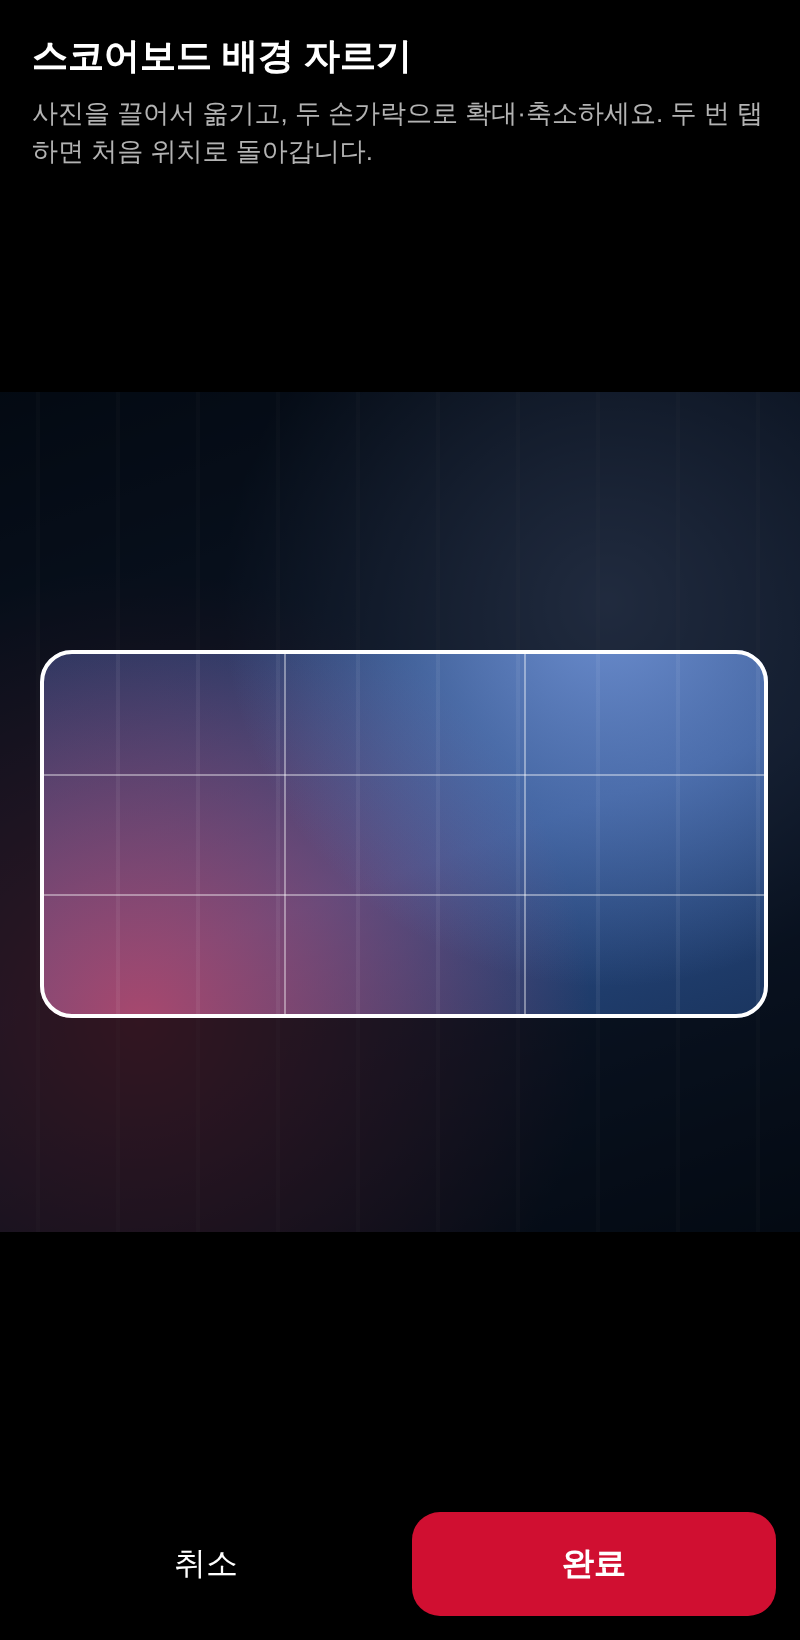
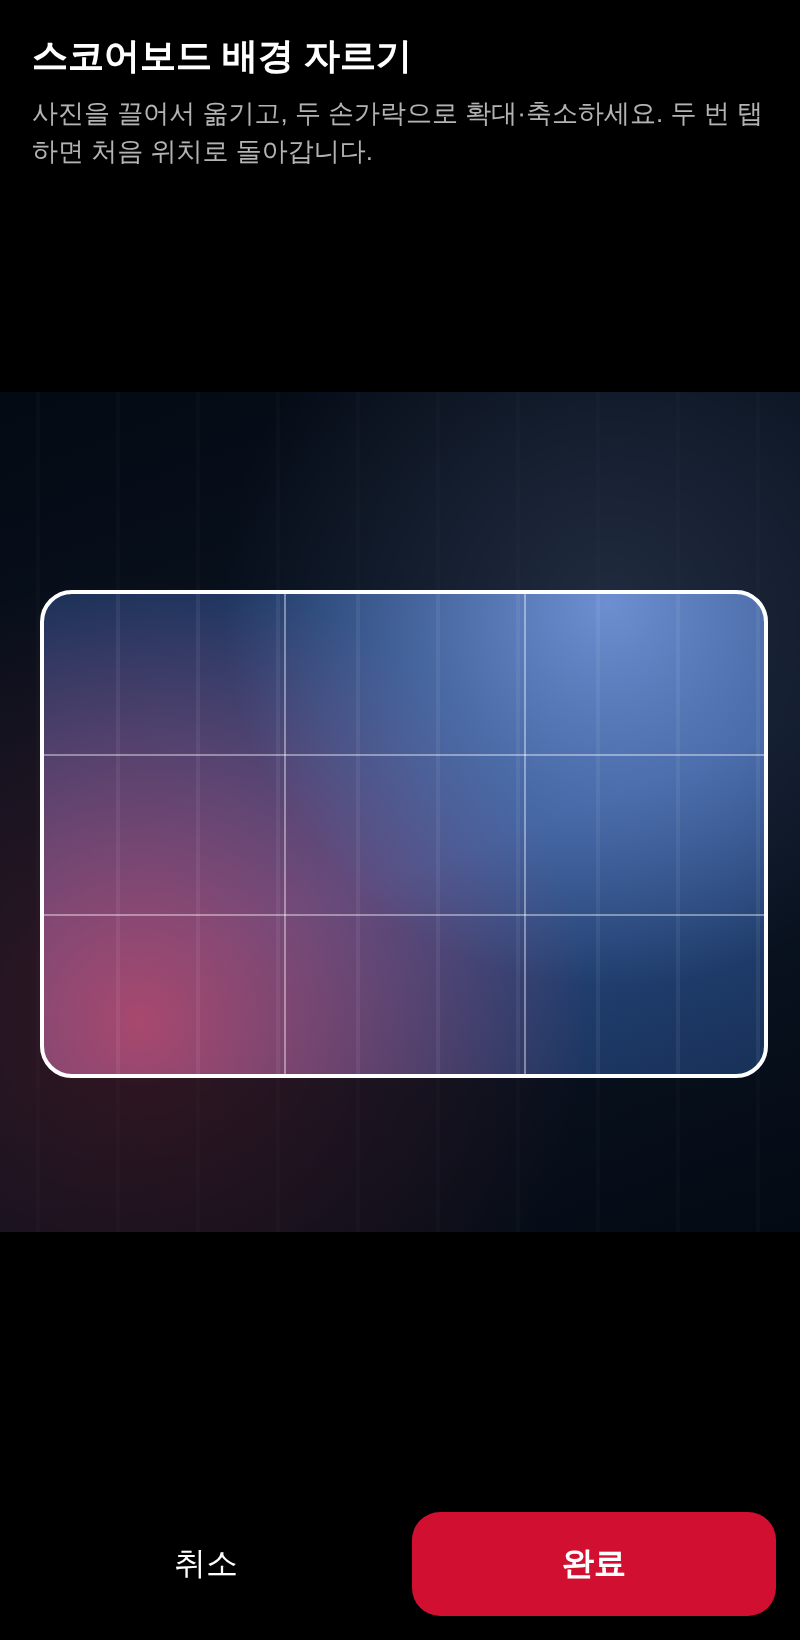
README 전체 정리 + 시안 이미지 최신화
- 최신 기능 기준으로 README 재작성 (앱 화면, 배경 사진, 알림, 실시간 갱신, 데이터, 설치·업데이트, 테스트, 구조)
- Giants Inline 폰트: 무료 사용 가능·상업적 사용 제한으로 안내 수정
- 알림 시안(원정 : 홈 표기, 실제 경기)과 자르기 화면 시안(3:2 틀) 갱신

Claude-Session: https://claude.ai/code/session_01DWNHkfmbEMvaTfCWG21Gcw

Changed region(s): [[0.0312, 0.5909, 0.9688, 0.6841], [0.0312, 0.3421, 0.9688, 0.4043]]

diff --git a/README.md b/README.md
@@ -1,114 +1,159 @@
 # 롯데 스코어보드
 
-롯데 자이언츠의 최근 경기 **최종 스코어**와 **진행 중인 경기 점수**를 알림으로 계속 띄워 두는 안드로이드 앱입니다. 잠금화면과 알림창에서 언제든 확인할 수 있습니다.
+응원 팀(롯데 자이언츠 또는 국가대표)의 **경기 스코어보드**를 보여주는 개인용 안드로이드 앱입니다.
+
+- 앱 화면에서는 **야구장 전광판 스타일**로 최근 경기·오늘 경기·진행 중인 경기를 보여줍니다.
+- 같은 스코어보드를 **알림으로 계속 띄워 둬서** 잠금화면과 알림창에서도 바로 확인할 수 있습니다.
+- 경기 중에는 점수를 **실시간으로 갱신**합니다.
 
 > **⚠ 안내**
 > - 개인 학습·취미용 비공식 프로젝트입니다. **롯데 자이언츠, KBO, 네이버와 관련이 없으며** 이들의 승인이나 후원을 받지 않았습니다.
 > - 경기 데이터는 **네이버 스포츠의 비공개(비공식) API**에서 가져옵니다. 이 API는 공개된 적이 없어서 예고 없이 바뀌거나 막힐 수 있습니다.
 > - 데이터에 대한 권리는 각 제공처에 있습니다. **상업적으로 쓰거나 많은 사람에게 배포하지 마세요.** 네이버 이용약관을 직접 확인하고 각자 책임하에 사용하세요.
 > - 팀 이름 등 상표는 각 소유자의 것입니다. 구단 로고나 공식 이미지는 들어 있지 않습니다.
-> - 단, 전광판 제목에 쓰는 **Giants Inline 폰트**(`app/src/main/res/font/giants_inline.otf`)는 개인용으로 넣은 파일입니다. **저장소를 공개하거나 앱을 배포하기 전에 빼거나 사용 조건을 확인하세요.**
+> - 전광판 제목에 쓰는 **Giants Inline 폰트는 무료로 쓸 수 있지만 상업적 사용은 제한**됩니다. 이 앱을 상업적으로 쓰려면 이 폰트를 빼야 합니다. 자세한 내용은 [라이선스](#라이선스)를 참고하세요.
 
-| 알림 | 앱 화면 |
+| 앱 화면 | 알림 (잠금화면 / 알림창) |
 |---|---|
-| ![notification](notification-mock.png) | ![app](app-screen-mock.png) |
+| ![앱 화면](app-screen-mock.png) | ![알림](notification-mock.png) |
 
-(두 그림 모두 디자인 시안입니다. 실제 모양은 기기와 안드로이드 버전에 따라 조금 다릅니다. 앱 화면의 배경은 예시로 그린 그라데이션입니다.)
+(디자인 시안입니다. 실제 모양은 기기와 안드로이드 버전에 따라 조금 다릅니다.)
 
-## 알림 구성
+## 주요 기능
+- **전광판 스코어보드**: 이닝별 점수(1~9회, 연장), R·H·E, 경기 전 / 경기 중 / 경기 종료 상태
+- **응원 팀 선택**: 롯데 자이언츠 / 국가대표(APBC·WBC 등 국제대회)
+- **알림 스코어보드**: 잠금화면·알림창에 상시 표시, 소리·진동 없음
+- **실시간 갱신**: 경기 시작 시각에 자동으로 시작, 경기 중 5분 간격, 화면을 켜면 바로 확인
+- **배경 사진**: 전광판 뒤에 원하는 사진을 3:2로 잘라서 넣기
+- **API 키 필요 없음**: 네이버 스포츠에서 바로 받아옴
+
+## 앱 화면
+위에서부터 다음 순서로 나옵니다.
+
+1. **제목 + 응원 팀 선택**: 오른쪽 버튼을 누르면 **롯데 자이언츠 / 국가대표** 중에서 고르는 메뉴가 뜹니다. 팀을 바꾸면 바로 그 팀의 결과를 불러옵니다.
+2. **전광판** (가로:세로 3:2 고정)
+   - 제목: 롯데는 **GIANTS**(남색 글자 + 하늘색 테두리), 국가대표는 **태극 마크 + TEAM KOREA**(위 빨강·아래 파랑)
+   - 오른쪽 위 상태: **경기 전**(주황) / **경기 중**(초록) / **경기 종료**(회색)
+   - 날짜 · 구장 · (국제대회면 대회 이름, 예: APBC)
+   - 라인스코어: 검은 칸에 주황 전광판 숫자. 원정팀이 위, 홈팀이 아래. 응원 팀은 빨간색
+   - 아래 띠
+     - 경기 종료: `롯데 승` · `7 - 4` · `10:29 갱신`
+     - 경기 중: `● 7회말` · 점수 · 갱신 시각
+     - 경기 전: `실시간 갱신 예약됨` · `PLAY BALL 12:00`
+   - **오늘 경기가 예정돼 있으면** 지난 경기 대신 오늘 경기를 '경기 전'으로 보여줍니다.
+3. **결과 불러오기**: 지금 바로 최신 결과를 받아옵니다.
+4. **설정 목록**
+   - **알림에 스코어보드 표시** (스위치): 끄면 알림을 지우고, 경기 중 실시간 갱신도 하지 않습니다. 앱 화면은 계속 갱신됩니다.
+   - **스코어보드 배경**: 사진 선택 / 기본 배경으로 ([전광판 배경 사진](#전광판-배경-사진))
+   - **휴대폰 알림 설정**: 이 앱의 안드로이드 알림 설정 화면을 엽니다.
+5. **실시간 갱신 중지** (맨 아래)
+
+### 전광판 배경 사진
+![자르기 화면](crop-screen-mock.png)
+
+- **스코어보드 배경 → 사진 선택**을 누르면 시스템 사진 선택기가 열리고, 사진을 고르면 **자르기 화면**으로 넘어갑니다. 저장소 권한은 필요 없습니다.
+- 3:2 틀은 고정돼 있고, 사진을 **끌어서 옮기고 두 손가락으로 확대·축소**해서 맞춥니다.
+  - 두 번 탭하면 처음 위치로 돌아갑니다.
+  - 사진이 틀 밖으로 비지 않게 자동으로 맞춰지고, 최대 8배까지 확대됩니다.
+- **완료**를 누르면 틀 안 부분만 잘라(최대 폭 1440px) 앱 안에 저장합니다. 갤러리에서 원본을 지워도 유지됩니다.
+- 사진 위에는 전광판 색을 반투명하게 덮어서 숫자가 잘 보이게 합니다.
+- **기본 배경으로**를 고르면 사진을 지우고 기본 전광판으로 돌아갑니다.
+
+## 알림
 - **접힌 상태**(잠금화면에서 주로 보이는 부분)
-  - 종료 후: `LG 0 : 5 롯데` / `승 · 11월 8일 (토)`
-  - 경기 중: `LG 2 : 3 롯데` / `● 7회말 · 11월 9일 (일)`
-- 점수는 야구 표기 관례대로 **원정 : 홈** 순서입니다. 점수표도 원정이 위, 홈이 아래입니다.
-- **펼친 상태**: 이닝별 라인스코어(1~9회, 연장, R H E). 롯데는 빨간색으로 표시합니다.
+  - 경기 종료: `롯데 7 : 4 두산` / `승 · 10월 12일 (월) · 잠실`
+  - 경기 중: `LG 2 : 3 롯데` / `● 7회말 · …`
+  - 점수는 야구 표기 관례대로 **원정 : 홈** 순서입니다.
+- **펼친 상태**: 이닝별 라인스코어(1~9회, 연장, R·H·E). 응원 팀은 빨간색입니다.
+- 알림은 안드로이드 기본 모양(흰 배경, 다크 모드에서는 검은 배경)입니다.
 - 소리·진동·팝업이 없는 상시 알림입니다.
   - 채널 중요도를 '기본'으로 둬서 아래쪽 '무음 알림' 구역이 아니라 일반 알림 구역에 표시됩니다.
   - 같은 구역 안의 순서는 안드로이드가 정하기 때문에, 더 최근에 온 알림이 위로 올라갈 수 있습니다.
   - Android 14부터는 밀어서 지울 수 있고, 지우면 다음 새 결과가 나올 때 다시 뜹니다.
-
-## 앱 화면
-- 밝은 화면에 **야구장 전광판 스타일 스코어보드**를 얹은 디자인입니다.
-  - 위: "스코어보드" 제목 + **응원 팀 선택**(롯데 자이언츠 / 국가대표, 눌러서 고름)
-  - 전광판 제목: 롯데는 **GIANTS**(남색 글자 + 하늘색 테두리), 국가대표는 **태극 마크 + TEAM KOREA**(위 빨강·아래 파랑). 둘 다 Giants Inline 폰트입니다.
-  - 상태 표시: **경기 전 / 경기 중 / 경기 종료**
-  - 라인스코어: 검은 칸에 주황 전광판 숫자(VT323 폰트), 응원 팀은 빨간색
-  - 아래 띠: 승패·점수·갱신 시각. 경기 전에는 "실시간 갱신 예약됨 · PLAY BALL 시작시각"
-  - 오늘 경기가 예정돼 있으면 지난 경기 대신 **오늘 경기(경기 전)**를 보여줍니다.
-- **결과 불러오기** 버튼, 설정 목록(**알림에 스코어보드 표시** 스위치 · **스코어보드 배경** · **휴대폰 알림 설정**), 맨 아래 **실시간 갱신 중지**
-  - 알림 스위치를 끄면 알림을 지우고 경기 중 실시간 갱신도 하지 않습니다. 앱 화면은 계속 갱신됩니다.
-- 데모 경기는 화면에서 뺐습니다. 테스트할 때는 제목 **"스코어보드"를 길게 누르면** 실행됩니다.
-
-## 전광판 배경 사진
-- 전광판은 **가로:세로 3:2로 고정**돼 있습니다.
-- **스코어보드 배경 → 사진 선택**을 누르면 시스템 사진 선택기에서 사진을 고르고, 이어서 **자르기 화면**이 열립니다.
-  - 3:2 틀은 고정돼 있고, 사진을 **끌어서 옮기고 두 손가락으로 확대·축소**해서 맞춥니다. 두 번 탭하면 처음 위치로 돌아갑니다.
-  - **완료**를 누르면 틀 안 부분만 잘라(최대 폭 1440px) 앱 안에 저장합니다. 원본을 지워도 유지됩니다.
-- 사진 위에는 전광판 색을 반투명하게 덮어서 숫자가 잘 보이게 합니다. **기본 배경으로**를 고르면 사진을 지웁니다.
-- 알림은 기본 흰 배경(다크 모드에서는 검은 배경) 그대로입니다.
-
-## 데이터: 네이버 스포츠 (API 키 필요 없음)
-- 경기 목록: `GET https://api-gw.sports.naver.com/schedule/games?upperCategoryId=kbaseball&categoryId=kbo&fromDate=..&toDate=..&teamCode=LT`
-- 경기 기록(이닝별 점수, R H E, 구장): `GET https://api-gw.sports.naver.com/schedule/games/{gameId}/record`
-- **비공식 API**라서 네이버가 형식을 바꾸면 수정이 필요할 수 있습니다.
-- 팀 필터나 개수 옵션이 안 먹혀서 일부만 오면, 하루씩 나눠서 다시 받습니다.
-- 3시간마다 최근 2주 경기만 확인해서 새 결과가 있으면 알림을 갱신합니다.
-- 앱에서 직접 불러올 때(또는 팀을 바꿀 때)는, 최근 2주에 경기가 없으면 2주씩 거슬러 올라가며 마지막 경기를 찾습니다(비시즌 대비).
+- 알림에는 예정 경기를 띄우지 않습니다. 경기 전에는 직전 경기 결과를 계속 보여줍니다.
 
 ## 실시간 갱신 (경기 중)
-- 3시간 주기 작업이 오늘 경기를 발견하면 **경기 시작 시각에 정확한 알람**을 예약합니다.
+- **3시간마다** 최근 2주 경기를 확인해서 새 결과가 있으면 알림을 갱신합니다.
+- 이때 오늘 경기를 발견하면 **경기 시작 시각에 정확한 알람**을 예약합니다.
 - 알람이 울리면 실시간 서비스가 시작되고, 스코어보드 알림이 그대로 실시간 점수판이 됩니다.
-  - 화면이 켜져 있으면 5분마다, 꺼져 있으면 15분마다 점수를 확인합니다.
+  - 화면이 켜져 있으면 **5분마다**, 꺼져 있으면 15분마다 점수를 확인합니다.
   - **화면을 켜는 순간** 바로 확인합니다(직전 확인 후 3분 이내면 생략).
   - 점수가 바뀌었을 때만 알림을 고칩니다.
-- 경기가 끝나면 최종 스코어 알림을 남기고 서비스가 스스로 종료합니다. 추가 API 호출은 없습니다.
-- 진행 이닝(`7회말`)은 네이버가 주는 값을 그대로 씁니다.
-- 과도한 요청을 막기 위해 하루 요청이 400회를 넘으면 실시간 갱신을 멈춥니다(보통 경기 하나에 100회 안팎).
+- 경기가 끝나면 최종 스코어 알림을 남기고 서비스가 스스로 멈춥니다.
+- 우천 지연 등으로 시작이 늦어지면 예정 시각 3시간 뒤까지 기다립니다. 취소·서스펜디드 경기는 바로 멈춥니다.
+- 하루 요청이 400회를 넘으면 실시간 갱신을 멈춥니다(보통 경기 하나에 100회 안팎).
+- **알림에 스코어보드 표시**를 끄면 실시간 갱신도 하지 않습니다.
 
-## 빌드 / 설치
-1. Android Studio로 이 폴더를 열고 기기에서 실행합니다(minSdk 28 / Android 9+).
-2. 앱의 **응원 팀** 토글에서 **롯데 자이언츠** 또는 **국가대표**를 고르면 바로 결과를 불러옵니다. 기본값은 롯데입니다.
-3. **알림 표시**를 누르고 알림 권한을 허용합니다.
+## 데이터: 네이버 스포츠 (비공식 API, 키 필요 없음)
+- 경기 목록: `GET https://api-gw.sports.naver.com/schedule/games?upperCategoryId=kbaseball&categoryId=kbo&fromDate=..&toDate=..&teamCode=LT`
+- 경기 기록(이닝별 점수, R·H·E, 구장): `GET https://api-gw.sports.naver.com/schedule/games/{gameId}/record`
+- 팀 설정
+  - 롯데 자이언츠: 팀 코드 `LT`, 리그 `kbo`
+  - 국가대표: 팀 코드 `KR`, 리그는 지정하지 않음(야구 전체). APBC·WBC처럼 대회마다 분류가 달라도 한국 경기를 찾습니다.
+- 팀 필터나 개수 옵션이 안 먹혀서 일부만 오면, 하루씩 나눠서 다시 받습니다.
+- 앱에서 직접 불러올 때(또는 팀을 바꿀 때)는, 최근 2주에 경기가 없으면 2주씩 거슬러 올라가며 마지막 경기를 찾습니다(비시즌 대비).
+- 요청에는 앱 이름(`LotteScoreboard`)을 밝혀서 보내고, 네이버 계정이나 로그인은 쓰지 않습니다.
 
-- 롯데 자이언츠: 네이버 팀 코드 `LT`, 리그 `kbo`
-- 국가대표: 팀 코드 `KR`, 리그는 지정하지 않음(야구 전체). APBC·WBC처럼 대회마다 분류가 달라도 한국 경기를 찾습니다.
-- 다른 팀을 추가하려면 `Prefs.kt`의 `TeamChoice`에 항목을 넣고 토글 버튼을 하나 더 만들면 됩니다.
+## 설치
+### 준비
+- Android Studio (최신 버전), Git
+- 안드로이드 9 이상 폰 (minSdk 28)
+
+### 처음 설치
+1. Android Studio에서 **File → New → Project from Version Control**을 고르고 이 저장소를 받습니다(Clone).
+   - 저장 위치는 **한글이 없는 경로**로 하세요(예: `C:\dev\giants`). 경로에 한글이 있으면 빌드가 실패할 수 있습니다.
+2. Gradle sync가 끝날 때까지 기다립니다.
+3. 폰에서 **개발자 옵션 → USB 디버깅**(또는 **무선 디버깅**)을 켭니다.
+   - 갤럭시는 **보안 위험 자동 차단**을 잠시 꺼야 설치됩니다.
+4. 상단 기기 목록에서 폰을 고르고 **▶ Run**을 누릅니다.
+5. 설치가 끝나면 보안 위험 자동 차단을 다시 켜도 됩니다. 앱은 계속 동작합니다.
+
+### 업데이트
+1. Android Studio에서 **Git → Pull** (`Ctrl+T`)
+2. 폰을 연결하고 **▶ Run**. 같은 PC에서 빌드하면 기존 앱 위에 설치되고 설정도 유지됩니다.
+
+### 처음 실행할 때
+1. **결과 불러오기**를 누릅니다(기본 팀은 롯데).
+2. **알림에 스코어보드 표시**를 켜고 알림 권한을 허용합니다.
 
 ### 잠금화면에 점수가 안 보이면
-- **설정 → 잠금화면 → 알림**에서 표시 방식을 "아이콘만"이 아니라 **내용/세부 정보 표시**로 바꿉니다(삼성 기준).
-- **알림 설정 열기** 버튼에서 '경기 스코어보드' 채널이 켜져 있고 잠금화면 표시가 허용돼 있는지 확인합니다.
+- 휴대폰 **설정 → 잠금화면 → 알림**에서 표시 방식을 "아이콘만"이 아니라 **내용/세부 정보 표시**로 바꿉니다(삼성 기준).
+- 앱의 **휴대폰 알림 설정**에서 '경기 스코어보드' 채널이 켜져 있고 잠금화면 표시가 허용돼 있는지 확인합니다.
 
 ## 테스트
-- **데모 경기 실행**: API 없이 가상 경기가 20초마다 반 이닝씩 진행됩니다. 끝나면 1분 동안 최종 스코어를 보여준 뒤 실제 최근 경기로 돌아갑니다.
-- **APBC 한국 대표팀 (2026.11.12~15, 도쿄돔)**: 토글에서 **국가대표**를 고릅니다.
-  - 경기 당일에 고르거나 **결과 불러오기**를 누르면 경기 시작 시각에 실시간 갱신이 예약됩니다.
-  - 12일 12:00 호주전, 13일 19:00 일본전, 14일 19:00 대만전
-  - 끝나면 **롯데 자이언츠**로 되돌립니다.
+- **유닛 테스트**: `app/src/test/`. 실제 네이버 응답(2026년 9월 롯데 경기, APBC 일정)으로 파싱을 확인하고, 자르기 계산도 확인합니다.
+  ```bash
+  ./gradlew test
+  ```
+- **데모 경기**: 화면에는 버튼이 없고, 제목 **"스코어보드"를 길게 누르면** 실행됩니다. 가상 경기가 20초마다 반 이닝씩 진행돼서 알림과 전광판이 바뀌는 걸 확인할 수 있습니다. 끝나면 1분 동안 최종 스코어를 보여준 뒤 실제 최근 경기로 돌아갑니다.
 
-## 파일 구성
+## 프로젝트 구조
 | 파일 | 역할 |
 |---|---|
-| `ScoreParser.kt` | 네이버 응답 파싱, 추적 팀의 종료/진행 중 경기 찾기 (실제 응답으로 유닛 테스트) |
-| `NaverSportsClient.kt` | 네이버 스포츠 경기 목록·기록 요청 |
-| `ScoreUpdater.kt` | 결과 갱신·캐시, 오늘 경기 감지 → 실시간 갱신 예약 |
-| `ScoreNotifier.kt` | 스코어보드 알림 (접힌 요약 + 펼친 라인스코어) |
-| `res/layout/notification_scoreboard.xml` | 펼친 알림의 라인스코어 레이아웃 |
-| `UpdateWorker.kt` | 3시간 주기 자동 갱신 |
-| `LiveController.kt` | 정확한 알람 예약, 실시간 서비스 시작/중지 |
-| `LiveScoreService.kt` | 경기 중 실시간 갱신 (포그라운드 서비스) |
-| `DemoGame.kt` | 테스트용 가상 경기 |
-| `MainActivity.kt` | 설정 화면 (알림과 같은 레이아웃으로 미리보기) |
-| `CropActivity.kt`, `CropImageView.kt` | 배경 사진 자르기 화면 (3:2 틀, 이동·확대) |
-| `CropMath.kt` | 자르기 계산 — 확대 한도, 빈틈 방지, 잘라낼 영역 (유닛 테스트 있음) |
-| `AspectRatioFrameLayout.kt` | 3:2 비율로 고정되는 전광판 카드 |
+| `MainActivity.kt` | 메인 화면 (팀 선택, 결과 불러오기, 설정 목록) |
 | `ScoreboardBinder.kt` | 앱 화면 전광판 그리기 (제목, 상태, 라인스코어, 아래 띠) |
+| `AspectRatioFrameLayout.kt` | 3:2 비율로 고정되는 전광판 카드 |
+| `CropActivity.kt`, `CropImageView.kt` | 배경 사진 자르기 화면 (3:2 틀, 이동·확대) |
+| `CropMath.kt` | 자르기 계산 (확대 한도, 빈틈 방지, 잘라낼 영역) |
+| `ScoreParser.kt` | 네이버 응답 파싱, 응원 팀의 종료·진행 중·예정 경기 찾기 |
+| `NaverSportsClient.kt` | 네이버 스포츠 경기 목록·기록 요청 |
+| `ScoreUpdater.kt` | 결과 갱신·저장, 오늘 경기 감지 → 실시간 갱신 예약 |
+| `ScoreNotifier.kt` | 스코어보드 알림 (접힌 요약 + 펼친 라인스코어) |
+| `UpdateWorker.kt` | 3시간 주기 자동 갱신 |
+| `LiveController.kt` | 정확한 알람 예약, 실시간 서비스 시작·중지 |
+| `LiveScoreService.kt` | 경기 중 실시간 갱신 (포그라운드 서비스) |
+| `Prefs.kt` | 설정·저장값 (응원 팀, 알림 스위치, 저장된 경기) |
+| `DemoGame.kt` | 테스트용 가상 경기 |
+| `res/layout/activity_main.xml` | 메인 화면 레이아웃 |
+| `res/layout/notification_scoreboard.xml` | 펼친 알림의 라인스코어 |
+| `res/font/` | `giants_inline.otf`(전광판 제목), `vt323.ttf`(전광판 숫자) |
 
 ## 주의
-- `USE_EXACT_ALARM` 권한은 Play 스토어에 올릴 경우 심사 대상입니다. 개인 설치용으로는 문제 없습니다.
-- 네이버 스포츠 데이터는 개인용으로만 쓰세요. 앱을 배포하면 이용약관 문제가 생길 수 있습니다.
+- `USE_EXACT_ALARM` 권한과 백그라운드 실시간 갱신은 Play 스토어에 올릴 경우 심사 대상입니다. 개인 설치용으로는 문제 없습니다.
+- 네이버 스포츠 데이터와 Giants Inline 폰트 때문에 **상업적 사용이나 배포는 하지 마세요.**
 
 ## 라이선스
 - 이 저장소의 **소스 코드**는 [MIT 라이선스](LICENSE)입니다.
-- 전광판 숫자 폰트 **VT323**은 SIL Open Font License 1.1입니다([licenses/VT323-OFL.txt](licenses/VT323-OFL.txt)).
-- **Giants Inline 폰트**는 MIT 라이선스 대상이 아니며, 권리는 원저작자에게 있습니다.
+- **VT323 폰트**(`res/font/vt323.ttf`): SIL Open Font License 1.1 ([licenses/VT323-OFL.txt](licenses/VT323-OFL.txt))
+- **Giants Inline 폰트**(`res/font/giants_inline.otf`): 무료로 사용할 수 있지만 **상업적 사용은 제한**되는 폰트입니다. MIT 라이선스 대상이 아니며, 권리는 원저작자에게 있습니다. 사용 조건은 폰트 배포처의 안내를 따릅니다.
 - 앱이 받아오는 **경기 데이터**와 팀 이름 등 **상표**는 MIT 라이선스 대상이 아니며, 각 권리자에게 있습니다.
-
